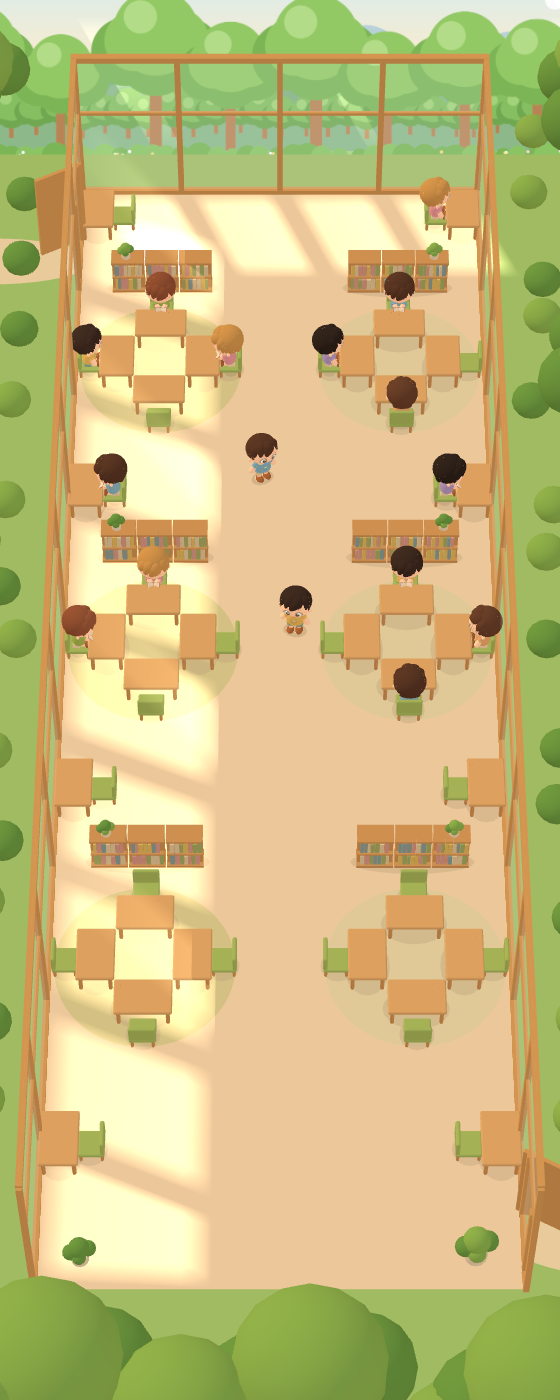
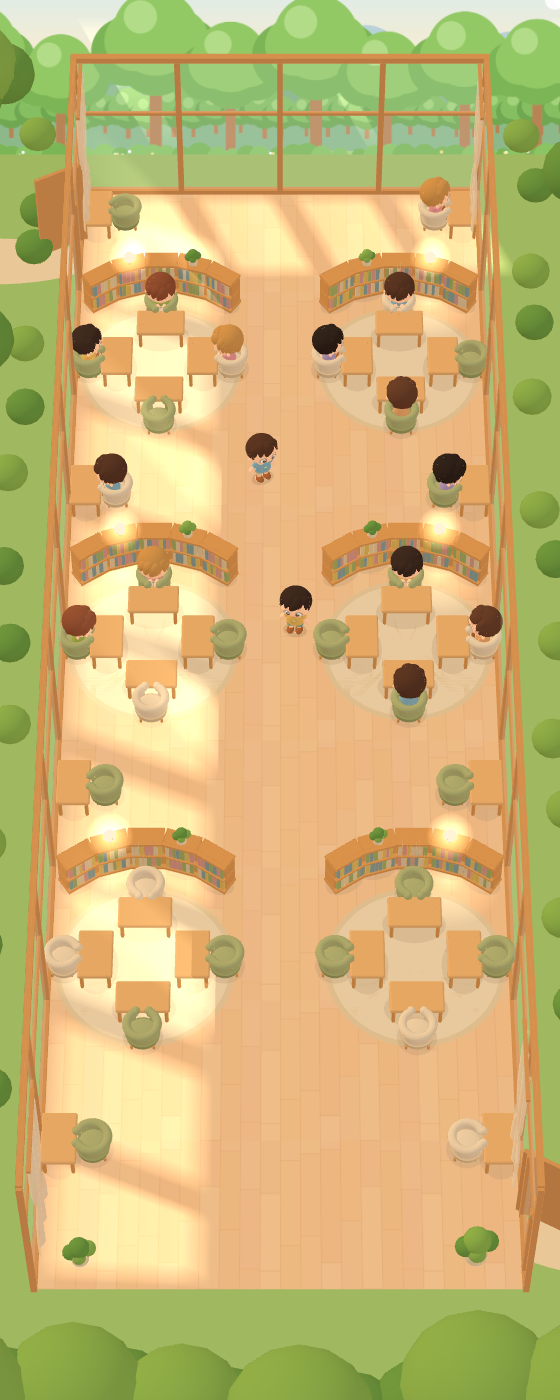
3D 도서관 시제품: 포근한 콘셉트 반영(소파 의자, 나무 마루, 곡선 책장과 둥근 조명, 크림색 카펫, 커튼)
Claude-Session: https://claude.ai/code/session_0159aZotMhLJwovxiTTw4ndE

diff --git a/prototype/3d-library/library.js b/prototype/3d-library/library.js
@@ -7,9 +7,10 @@ import { mergeGeometries } from 'three/addons/utils/BufferGeometryUtils.js';
 export const CELL = 0.3;                 // 평면도 1칸 = 0.3 (캐릭터 키 = 1)
 export const GRID = { w: 24, d: 72 };
 export const PALETTE = {
-  floor: '#F5DFC2', wall: '#F7DFC0', frame: '#DDA765', shelf: '#D7A064',
+  floor: '#F7D3AC', floorLine: '#EBC193', sofaSage: '#B4BE88', sofaSageDk: '#9EAA74', sofaCream: '#F3E4CB', sofaCreamDk: '#E3CFAE',
+  rugCream: '#F2E5CB', rugRim: '#E8D6B4', lamp: '#FFF4D6', curtain: '#FBEBD3', wall: '#F7DFC0', frame: '#DFA466', shelf: '#E3A762',
   books: ['#A9BC78', '#E7C96F', '#8FAEB5', '#DFA7A0', '#EAD9B5'],
-  desk: '#E6B477', chair: '#ACC76C', rug: '#DDD8A5', shadow: '#B39473',
+  desk: '#F0BE80', chair: '#ACC76C', rug: '#DDD8A5', shadow: '#B39473',
   leaf: '#8FBF5A', leafDark: '#6FA64C', pot: '#F3E6CC', grass: '#A6D27C', grassDark: '#A8D282', sky: '#CDEBFA', path: '#F3E3C2', trunk: '#C79562',
 };
 const gx = (c) => (c - GRID.w / 2) * CELL, gz = (c) => (c - GRID.d / 2) * CELL;
@@ -55,7 +56,7 @@ class Batch {
   }
   build(parent, matOpts = {}) {
     for (const [color, geos] of this.bins) {
-      const mesh = new THREE.Mesh(mergeGeometries(geos, false), new THREE.MeshStandardMaterial({ color, roughness: 1, metalness: 0, ...matOpts }));
+      const mesh = new THREE.Mesh(mergeGeometries(geos, false), new THREE.MeshStandardMaterial({ color, roughness: 1, metalness: 0, side: THREE.DoubleSide, ...matOpts }));
       parent.add(mesh);
     }
   }
@@ -114,6 +115,32 @@ function landscapeTexture(aspect) {
 }
 const LAND_FRAC = 0.26;   // 풍경판에서 통창 너머로 보이는 아래쪽 띠의 비율
 
+// 나무 마루: 따뜻한 밝은 나무 판자 (판자마다 살짝 다른 색 + 가는 이음선)
+function woodFloorTexture(P) {
+  const c = document.createElement('canvas'); c.width = 512; c.height = 512; const g = c.getContext('2d');
+  let sd = 5; const rnd = () => (sd = (sd * 16807) % 2147483647) / 2147483647;
+  const base = new THREE.Color(P.floor);
+  const rows = 8, rh = 512 / rows;
+  for (let r = 0; r < rows; r++) {
+    let x = -rnd() * 300;
+    while (x < 512) {
+      const len = 220 + rnd() * 200, col = base.clone().offsetHSL((rnd() - 0.5) * 0.012, (rnd() - 0.5) * 0.05, (rnd() - 0.5) * 0.045);
+      g.fillStyle = '#' + col.getHexString(); g.fillRect(x, r * rh, len, rh);
+      g.fillStyle = P.floorLine; g.fillRect(x, r * rh, 2, rh);
+      x += len;
+    }
+    g.fillStyle = P.floorLine; g.fillRect(0, r * rh, 512, 2);
+  }
+  const t = new THREE.CanvasTexture(c); t.colorSpace = THREE.SRGBColorSpace; t.wrapS = t.wrapT = THREE.RepeatWrapping; t.anisotropy = 4; return t;
+}
+// 둥근 조명 주변의 따뜻한 빛 번짐
+function glowTexture() {
+  const c = document.createElement('canvas'); c.width = c.height = 128; const g = c.getContext('2d');
+  const gr = g.createRadialGradient(64, 64, 0, 64, 64, 64); gr.addColorStop(0, '#FFE9B8ff'); gr.addColorStop(0.3, '#FFE2A888'); gr.addColorStop(1, '#FFE2A800');
+  g.fillStyle = gr; g.fillRect(0, 0, 128, 128);
+  const t = new THREE.CanvasTexture(c); t.colorSpace = THREE.SRGBColorSpace; return t;
+}
+
 // 햇빛 자국: 가장자리가 부드럽게 번지는 따뜻한 빛 조각
 function softRectTexture() {
   const c = document.createElement('canvas'); c.width = c.height = 128; const g = c.getContext('2d');
@@ -146,9 +173,9 @@ function quadGeo(p) { // p: 4개의 [x,z] (반시계)
 export function buildLibrary(scene) {
   const P = PALETTE, W = GRID.w * CELL, D = GRID.d * CELL, WALL_H = 3.4;
   const root = new THREE.Group(); scene.add(root);
-  scene.add(new THREE.AmbientLight('#FFF1E0', 0.5));
-  scene.add(new THREE.HemisphereLight('#FFF6E8', '#F6D2AE', 1.35));
-  const sunLight = new THREE.DirectionalLight('#FFDDA8', 1.45); sunLight.position.set(-7, 6.5, -4); scene.add(sunLight);
+  scene.add(new THREE.AmbientLight('#FFEBD6', 0.62));
+  scene.add(new THREE.HemisphereLight('#FFF3E2', '#F7CFA6', 1.3));
+  const sunLight = new THREE.DirectionalLight('#FFD8A0', 1.35); sunLight.position.set(-7, 6.5, -4); scene.add(sunLight);
   const bounce = new THREE.DirectionalLight('#FFE4CF', 0.28); bounce.position.set(5, 2, 4); scene.add(bounce);
   scene.fog = new THREE.Fog('#F4EAD6', 60, 140);
   const solid = new Batch(), flat = new Batch();
@@ -156,36 +183,45 @@ export function buildLibrary(scene) {
   const rbox = (w, h, d, r) => new RoundedBoxGeometry(w, h, d, 3, r);
 
   // ── 바닥과 바깥 정원
-  const floor = new THREE.Mesh(new THREE.PlaneGeometry(W, D), new THREE.MeshStandardMaterial({ color: P.floor, roughness: 1 })); floor.rotation.x = -Math.PI / 2; root.add(floor);
+  const floorTex = woodFloorTexture(P); floorTex.center.set(0.5, 0.5); floorTex.rotation = Math.PI / 2; floorTex.repeat.set(D / 2.4, W / 2.4);
+  const floor = new THREE.Mesh(new THREE.PlaneGeometry(W, D), new THREE.MeshStandardMaterial({ map: floorTex, roughness: 0.95 })); floor.rotation.x = -Math.PI / 2; root.add(floor);
   const lawn = new THREE.Mesh(new THREE.PlaneGeometry(90, 90), new THREE.MeshStandardMaterial({ color: P.grass, roughness: 1 })); lawn.rotation.x = -Math.PI / 2; lawn.position.y = -0.03; root.add(lawn);
 
-  // ── 가구 부품
-  const deskTop = rbox(3 * CELL, 0.07, 2 * CELL, 0.03), seatG = rbox(0.42, 0.07, 0.4, 0.03), backG = rbox(0.42, 0.34, 0.07, 0.03);
+  // ── 가구 부품: 둥근 나무 책상 + 폭신한 소파 의자(연두·크림 섞어서)
+  const deskTop = rbox(3 * CELL - 0.06, 0.075, 2 * CELL - 0.06, 0.035);
   const DESK_Y = 0.385, shadowDisc = new THREE.CircleGeometry(1, 20);
+  const cushion = new THREE.CylinderGeometry(1, 0.94, 1, 28);
+  // 앞쪽(+z)만 트인 등받이 벽과, 그 위를 두르는 도톰한 테두리
+  const backShell = new THREE.CylinderGeometry(1, 0.9, 1, 28, 1, true, Math.PI * 0.14, Math.PI * 1.72);
+  const rim = new THREE.TorusGeometry(0.235, 0.068, 14, 32, Math.PI * 1.72); rim.rotateZ(Math.PI * 0.64); rim.rotateX(Math.PI / 2);
+  const rimEnd = new THREE.SphereGeometry(0.068, 14, 10);
   const seats = seatLayout();
-  for (const s of seats) {
+  const sofa = (x, z, ry, i) => {
+    const sage = i % 3 !== 1, main = sage ? P.sofaSage : P.sofaCream, dark = sage ? P.sofaSageDk : P.sofaCreamDk;
+    const at = (lx, lz) => [x + lx * Math.cos(ry) + lz * Math.sin(ry), z - lx * Math.sin(ry) + lz * Math.cos(ry)];
+    const [cx, cz] = at(0, -0.05);
+    solid.add(dark, cushion, cx, 0.13, cz, ry, 0.27, 0.1, 0.26);          // 받침
+    solid.add(main, ball, cx, 0.2, cz, ry, 0.25, 0.065, 0.23);                   // 방석(봉긋)
+    solid.add(main, backShell, cx, 0.31, cz, ry, 0.27, 0.26, 0.26);           // 등받이·팔걸이 감싸는 벽
+    solid.add(main, rim, cx, 0.44, cz, ry);                                     // 위쪽 둥근 테두리(폭신)
+    for (const sd of [-1, 1]) { const a = Math.PI * 0.14 * sd; const [ex, ez] = at(Math.sin(a) * 0.235, Math.cos(a) * 0.235 - 0.03); solid.add(main, rimEnd, ex, 0.44, ez, 0); }   // 팔걸이 끝
+    for (const [lx, lz] of [[-0.17, -0.18], [0.17, -0.18], [-0.17, 0.12], [0.17, 0.12]]) { const [wx, wz] = at(lx, lz - 0.05); solid.add(P.shelf, cyl, wx, 0.04, wz, 0, 0.022, 0.08, 0.022); }
+    flat.add(P.shadow, shadowDisc, cx, 0.012, cz, 0, 0.31, 0.31, 1, -Math.PI / 2);
+  };
+  seats.forEach((s, i) => {
     const ry = s.rotY;
-    // 책상: 캐릭터가 보는 방향 기준으로 가로 3칸 × 세로 2칸
     solid.add(P.desk, deskTop, s.deskX, DESK_Y, s.deskZ, ry);
-    for (const [lx, lz] of [[-0.38, -0.23], [0.38, -0.23], [-0.38, 0.23], [0.38, 0.23]]) {
+    for (const [lx, lz] of [[-0.36, -0.21], [0.36, -0.21], [-0.36, 0.21], [0.36, 0.21]]) {
       const wx = s.deskX + lx * Math.cos(ry) + lz * Math.sin(ry), wz = s.deskZ - lx * Math.sin(ry) + lz * Math.cos(ry);
-      solid.add(P.shelf, cyl, wx, DESK_Y / 2, wz, 0, 0.032, DESK_Y, 0.032);
+      solid.add(P.shelf, cyl, wx, DESK_Y / 2, wz, 0, 0.03, DESK_Y, 0.03);
     }
-    flat.add(P.shadow, shadowDisc, s.deskX, 0.012, s.deskZ, ry, 0.52, 0.36, 1, -Math.PI / 2);
-    // 의자: 등받이가 캐릭터 뒤쪽
-    const bx = s.x - Math.sin(ry) * 0.2, bz = s.z - Math.cos(ry) * 0.2;
-    solid.add(P.chair, seatG, s.x - Math.sin(ry) * 0.03, 0.2, s.z - Math.cos(ry) * 0.03, ry);
-    solid.add(P.chair, backG, bx, 0.4, bz, ry);
-    for (const [lx, lz] of [[-0.16, -0.19], [0.16, -0.19], [-0.16, 0.13], [0.16, 0.13]]) {
-      const wx = s.x + lx * Math.cos(ry) + lz * Math.sin(ry), wz = s.z - lx * Math.sin(ry) + lz * Math.cos(ry);
-      solid.add(P.shelf, cyl, wx, 0.1, wz, 0, 0.026, 0.2, 0.026);
-    }
-    flat.add(P.shadow, shadowDisc, s.x, 0.012, s.z, 0, 0.27, 0.27, 1, -Math.PI / 2);
-  }
+    flat.add(P.shadow, shadowDisc, s.deskX, 0.012, s.deskZ, ry, 0.5, 0.34, 1, -Math.PI / 2);
+    sofa(s.x, s.z, ry, i);
+  });
 
   // ── 책장 한 칸(나무 틀 + 2단 책) — 곡선·직선 책장 모두 이 칸을 이어 붙여 만듦
   let seed = 7; const rnd = () => (seed = (seed * 16807) % 2147483647) / 2147483647;
-  const SH = { w: 0.56, h: 0.78, d: 0.3 };
+  const SH = { w: 0.56, h: 0.74, d: 0.3 };
   const shelfUnit = (x, z, ry) => {
     const put = (color, geo, lx, ly, lz, sx, sy, sz) => solid.add(color, geo, x + lx * Math.cos(ry) + lz * Math.sin(ry), ly, z - lx * Math.sin(ry) + lz * Math.cos(ry), ry, sx, sy, sz);
     put(P.shelf, box, 0, SH.h / 2, -0.03, SH.w, SH.h, SH.d - 0.06);          // 뒤판 겸 몸통
@@ -201,20 +237,35 @@ export function buildLibrary(scene) {
       }
     }
   };
+  const glowMat = new THREE.SpriteMaterial({ map: glowTexture(), transparent: true, depthWrite: false, blending: THREE.AdditiveBlending, opacity: 0.85 });
+  const lampMat = new THREE.MeshBasicMaterial({ color: P.lamp });
+  const floorGlowMat = new THREE.MeshBasicMaterial({ map: glowTexture(), transparent: true, opacity: 0.28, blending: THREE.AdditiveBlending, depthWrite: false });
+  const lamp = (x, y, z) => {
+    solid.add(P.shelf, cyl, x, y + 0.03, z, 0, 0.045, 0.06, 0.045);
+    const bulb = new THREE.Mesh(new THREE.SphereGeometry(0.1, 20, 14), lampMat); bulb.position.set(x, y + 0.15, z); root.add(bulb);
+    const halo = new THREE.Sprite(glowMat); halo.scale.set(0.75, 0.75, 1); halo.position.set(x, y + 0.15, z); halo.renderOrder = 4; root.add(halo);
+    const pool = new THREE.Mesh(new THREE.CircleGeometry(0.85, 24), floorGlowMat); pool.rotation.x = -Math.PI / 2; pool.position.set(x, 0.016, z + 0.3); pool.renderOrder = 2; root.add(pool);   // 바닥의 은은한 빛
+  };
   const plant = (x, y, z, k = 1) => {
     solid.add(P.pot, cyl, x, y + 0.07 * k, z, 0, 0.085 * k, 0.14 * k, 0.085 * k);
     for (const [dx, dy, dz, r] of [[0, 0.24, 0, 0.1], [-0.08, 0.19, 0.02, 0.075], [0.08, 0.19, -0.02, 0.075], [0, 0.18, 0.07, 0.065]]) solid.add(rnd() > 0.5 ? P.leaf : P.leafDark, ball, x + dx * k, y + dy * k, z + dz * k, 0, r * k, r * k, r * k);
   };
 
-  // 모둠마다: 둥근 카펫 + 뒤쪽 낮은 책장 + 화분
-  RUGS.forEach(([x, y, r], i) => {
-    flat.add(i % 2 ? '#E9E2BE' : P.rug, new THREE.CircleGeometry(1, 56), gx(x), 0.006, gz(y), 0, r * CELL, r * CELL, 1, -Math.PI / 2);
+  // 모둠마다: 폭신한 크림색 둥근 카펫 + 뒤를 감싸는 곡선 책장 + 위에 둥근 조명과 화분
+  RUGS.forEach(([x, y, r]) => {
+    flat.add(P.rugRim, new THREE.CircleGeometry(1, 64), gx(x), 0.006, gz(y), 0, r * CELL, r * CELL, 1, -Math.PI / 2);
+    flat.add(P.rugCream, new THREE.CircleGeometry(1, 64), gx(x), 0.008, gz(y), 0, r * CELL - 0.09, r * CELL - 0.09, 1, -Math.PI / 2);
   });
-  SHELVES.forEach(([x0, x1, y], i) => {
-    const n = 3, span = (x1 - x0) * CELL, step = span / n;
-    for (let k = 0; k < n; k++) shelfUnit(gx(x0) + step * (k + 0.5), gz(y), 0);
-    flat.add(P.shadow, shadowDisc, gx((x0 + x1) / 2), 0.012, gz(y) + 0.06, 0, span * 0.55, 0.22, 1, -Math.PI / 2);
-    plant(gx(i % 2 ? x1 - 0.9 : x0 + 0.9), SH.h, gz(y), 0.95);
+  CLUSTER_CENTERS.forEach(([cx, cy], i) => {
+    const x = gx(cx), z = gz(cy), R = 6.4 * CELL;
+    for (let k = -2; k <= 2; k++) {
+      const a = deg(k * 17), sx = x + Math.sin(a) * R, sz = z - Math.cos(a) * R;
+      shelfUnit(sx, sz, -a);
+      flat.add(P.shadow, shadowDisc, sx, 0.012, sz + 0.05, -a, 0.34, 0.22, 1, -Math.PI / 2);
+    }
+    const s1 = i % 2 ? 1 : -1, a1 = deg(17 * s1), a2 = deg(-17 * s1);
+    lamp(x + Math.sin(a1) * R, SH.h, z - Math.cos(a1) * R);
+    plant(x + Math.sin(a2) * R, SH.h, z - Math.cos(a2) * R, 0.95);
   });
   plant(gx(21.6), 0, gz(70.2), 2.1);   // 입구 옆 큰 화분
   plant(gx(2.2), 0, gz(70.4), 1.6);    // 앞쪽 모서리 화분
@@ -242,8 +293,18 @@ export function buildLibrary(scene) {
   for (const x of [xL, xR]) { const g = new THREE.Mesh(new THREE.PlaneGeometry(D, WALL_H), glass); g.rotation.y = Math.PI / 2; g.position.set(x, WALL_H / 2, 0); root.add(g); }
   { const g = new THREE.Mesh(new THREE.PlaneGeometry(W, WALL_H), glass); g.position.set(0, WALL_H / 2, zBack); root.add(g); }
 
+  // ── 커튼: 옆 통창 위·뒤쪽 모서리에 드리운 반투명 크림색 커튼(주름진 면)
+  const curtainGeo = (() => { const g = new THREE.PlaneGeometry(1.1, 3.0, 24, 8); const p = g.attributes.position;
+    for (let i = 0; i < p.count; i++) { const x = p.getX(i), y = p.getY(i); const pinch = 1 - 0.55 * Math.exp(-Math.pow((y + 0.35) / 0.35, 2));
+      p.setX(i, x * pinch); p.setZ(i, Math.sin(x * 17) * 0.05 * pinch); } g.computeVertexNormals(); return g; })();
+  const curtainMat = new THREE.MeshStandardMaterial({ color: P.curtain, roughness: 1, transparent: true, opacity: 0.88, side: THREE.DoubleSide });
+  for (const [x, z] of [[xL + 0.12, zBack + 0.75], [xR - 0.12, zBack + 0.75], [xL + 0.12, zFront - 0.9], [xR - 0.12, zFront - 2.0]]) {
+    const m = new THREE.Mesh(curtainGeo, curtainMat); m.position.set(x, WALL_H - 1.55, z); m.rotation.y = Math.PI / 2; root.add(m);
+    solid.add(P.frame, box, x, WALL_H - 0.04, z, 0, 0.06, 0.06, 1.3);   // 커튼 봉
+  }
+
   // ── 햇빛: 왼쪽·뒤쪽 통창으로 비스듬히 들어와 바닥에 생기는 따뜻한 빛 자국 + 은은한 빛줄기
-  const sunMat = new THREE.MeshBasicMaterial({ map: softRectTexture(), transparent: true, opacity: 0.36, blending: THREE.AdditiveBlending, depthWrite: false, side: THREE.DoubleSide });
+  const sunMat = new THREE.MeshBasicMaterial({ map: softRectTexture(), transparent: true, opacity: 0.27, blending: THREE.AdditiveBlending, depthWrite: false, side: THREE.DoubleSide });
   const beamMat = new THREE.MeshBasicMaterial({ map: beamTexture(), transparent: true, opacity: 0.16, blending: THREE.AdditiveBlending, depthWrite: false, side: THREE.DoubleSide });
   const SUN_DX = 2.6, SUN_DZ = 1.1;              // 창 아래 기준으로 빛이 바닥에 닿는 거리(오른쪽 앞 방향)
   const addPatch = (pts) => { const m = new THREE.Mesh(quadGeo(pts), sunMat); m.position.y = 0.015; m.renderOrder = 2; root.add(m); };
